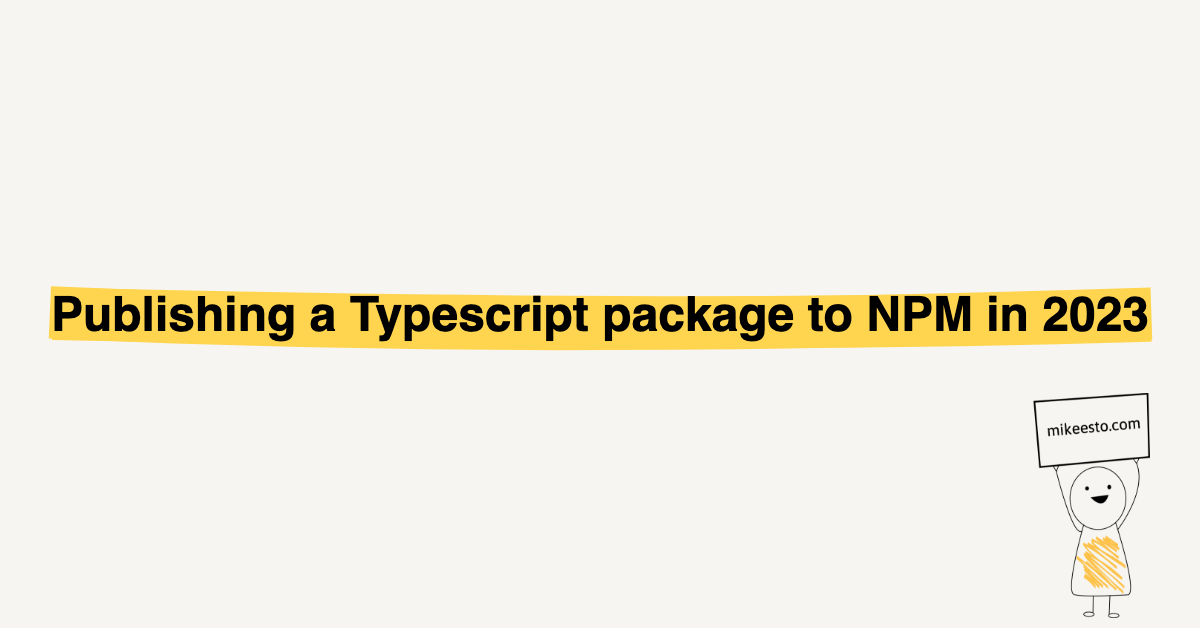
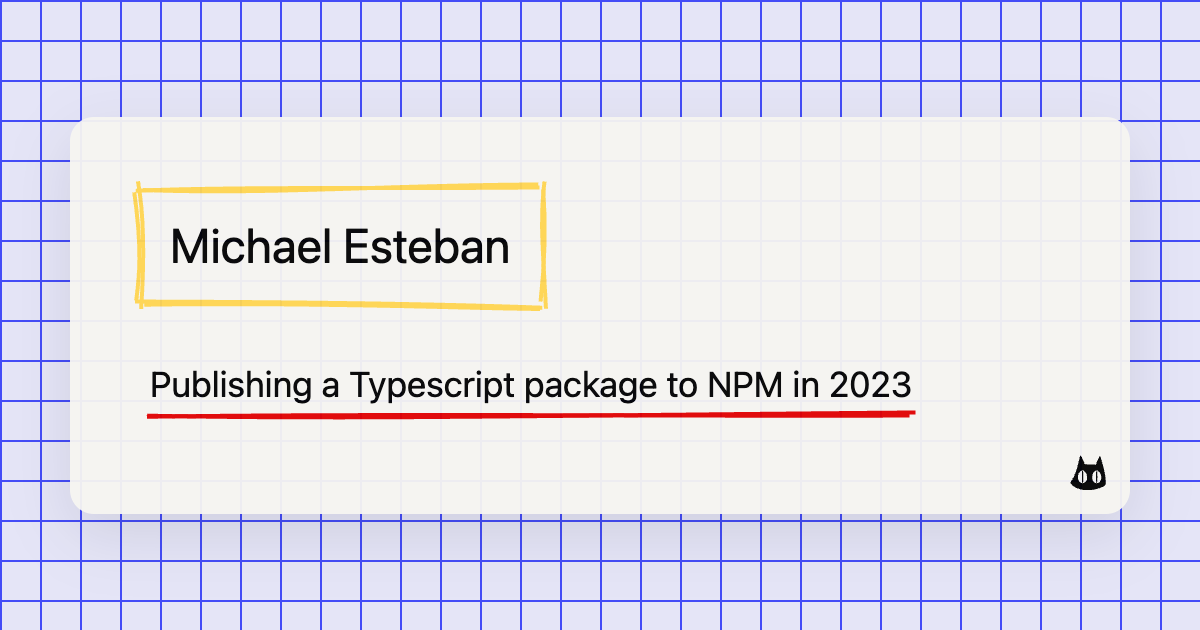
update og images

diff --git a/src/utils/screenshot.js b/src/utils/screenshot.js
@@ -12,70 +12,114 @@ export async function screenshot(title) {
     return slug;
   }
 
-  //const headless = false; // change to false for debugging
-  const browser = await puppeteer.launch({ headless: "new" });
+  const headless = "new"; // change to false for debugging
+  const browser = await puppeteer.launch({ headless });
   const page = await browser.newPage();
-  page.setViewport({ width: 1200, height: 628 });
+  page.setViewport({ width: 600, height: 315, deviceScaleFactor: 2 });
   const html = getHtml(title);
   await page.setContent(html);
 
   await page.screenshot({ path: filePath });
   return slug;
-
-  // if (headless) {
-  //   await browser.close();
-  // }
 }
 
 function getHtml(text) {
   return `
 <!DOCTYPE html>
-<html>
+<html lang="en">
   <head>
     <meta charset="utf-8">
     <title>Generated Image</title>
     <meta name="viewport" content="width=device-width, initial-scale=1">
     <style>
       body {
-        background-color: #f6f5f1;
-        font-family: sans-serif;
+        font-family: system-ui, sans-serif;
         padding: 0;
         margin: 0;
         display: flex;
         justify-content: center;
         align-items: center;
-        height: 100vh;
-        flex-direction: column;
+        min-height: 100vh;
+        background-color: #e5e5f7;
+        background-image:  linear-gradient(#444cf7 1px, transparent 1px), linear-gradient(to right, #444cf7 1px, #e5e5f7 1px);
+        background-size: 20px 20px;
       }
+
+      .card {
+        padding: 2.5rem;
+        border-radius: 12px;
+        box-shadow: 0 10px 30px rgba(0, 0, 0, 0.1);
+        width: 450px;
+        opacity: 0.95;
+        background-color: #f6f5f1;
+        position: relative;
+      }
+
       h1 {
-        font-size: 3rem;
-        color: #000;
-        text-align: center;
-        margin: 0;
+        font-size: 1.5rem;
+        margin: 0 0 1rem;
+        line-height: 1.2;
+        font-weight: normal;
+        margin-bottom: 20px;
+        display: inline-block;
+        padding: 10px;
       }
-      img {
+
+      h2 {
+        font-size: 1.1rem;
+        font-weight: normal;
+        display: inline-block;
+      }
+
+      .bottom-right {
         position: absolute;
-        bottom: 10px;
-        right: 50px;
-        width: auto;
-        height: 225px;
+        bottom: 0;
+        right: 5px;
+        
       }
     </style>
   </head>
   <body>
-    <h1>${text}</h1>
-    <img src="https://i.ibb.co/RQYbmwm/stick.png">
+    <div class="card">
+      <h1>Michael Esteban</h1>
+      <br>
+      <h2>${text}</h2>
+      <div class="bottom-right">
+        <svg
+        class="inline"
+        viewBox="0 0 225 260"
+        xmlns="http://www.w3.org/2000/svg"
+        width="30"
+        height="30"
+      >
+        <path
+          d="M69.1 40.7c-.6 1.6-2.9 10.7-5.1 20.3-9.8 42.7-17.4 63.2-31 83.9l-6.1 9.3 2.7 4c9.5 13.7 27.9 23.6 50.9 27.4 12 1.9 34.9 1.5 49-1 21.2-3.8 44.4-12.8 48.9-18.9 1.9-2.6 2.1-4.2 2-16.5-.1-13.7-1-20.7-6-44.7-5.6-27.2-16.7-66.1-18.9-65.9-1.7.2-4.6 5.9-11.2 22.3L138 76.5l-9.7-.3c-5.4-.1-16.4-.5-24.4-.8l-14.6-.6-2.2-7.2c-2.7-8.2-9-22.3-12.1-26.6-2.7-3.7-4.4-3.8-5.9-.3zm15.2 61.7c4.3 1.7 9.4 7.7 12.5 14.5 2.9 6.6 4.1 18.9 2.3 24.4C96 150.7 88 157 79.3 157c-17.9 0-25.7-27.4-13.2-46.3 3.1-4.7 9.9-9.7 13.2-9.7 1 0 3.2.6 5 1.4zm61.4-.3c5.9 2.2 10.9 8.9 14.3 18.8 6.1 18.3-3 36.1-18.5 36.1-7.8 0-13.6-4.5-17.6-13.5-5.8-13.1.6-34.5 12.1-40.6 4-2.2 5.8-2.3 9.7-.8z"
+        ></path>
+        <path
+          d="M78.3 106.7c-.4 2.1-.8 12.3-.8 22.8 0 20.2.7 26.5 3 26.5s3-6.3 3-28c0-14.9-.4-21.1-1.3-22.8-1.8-3.2-3-2.7-3.9 1.5zM139.3 106.7c-1 4.9-1 40.7 0 45.5.5 2.2 1.4 3.8 2.2 3.8 2.3 0 3-6.3 3-28 0-14.9-.4-21.1-1.3-22.8-1.8-3.2-3-2.7-3.9 1.5z"
+        ></path>
+      </svg>
+    </div>
+    </div>
   </body>
   <script type="module">
     import { annotate } from "https://unpkg.com/rough-notation?module";
 
     const heading = document.querySelector("h1");
-    const annotation = annotate(heading, {
-      type: "highlight",
+    const box = annotate(heading, {
+      type: "box",
       animate: false,
       color: "#ffd54f",
     });
-    annotation.show();
+    box.show();
+
+    const subheading = document.querySelector("h2");
+    const underline = annotate(subheading, {
+      type: "underline",
+      animate: false,
+      color: "#e10000",
+    });
+    underline.show();
   </script>
 </html>`;
 }
